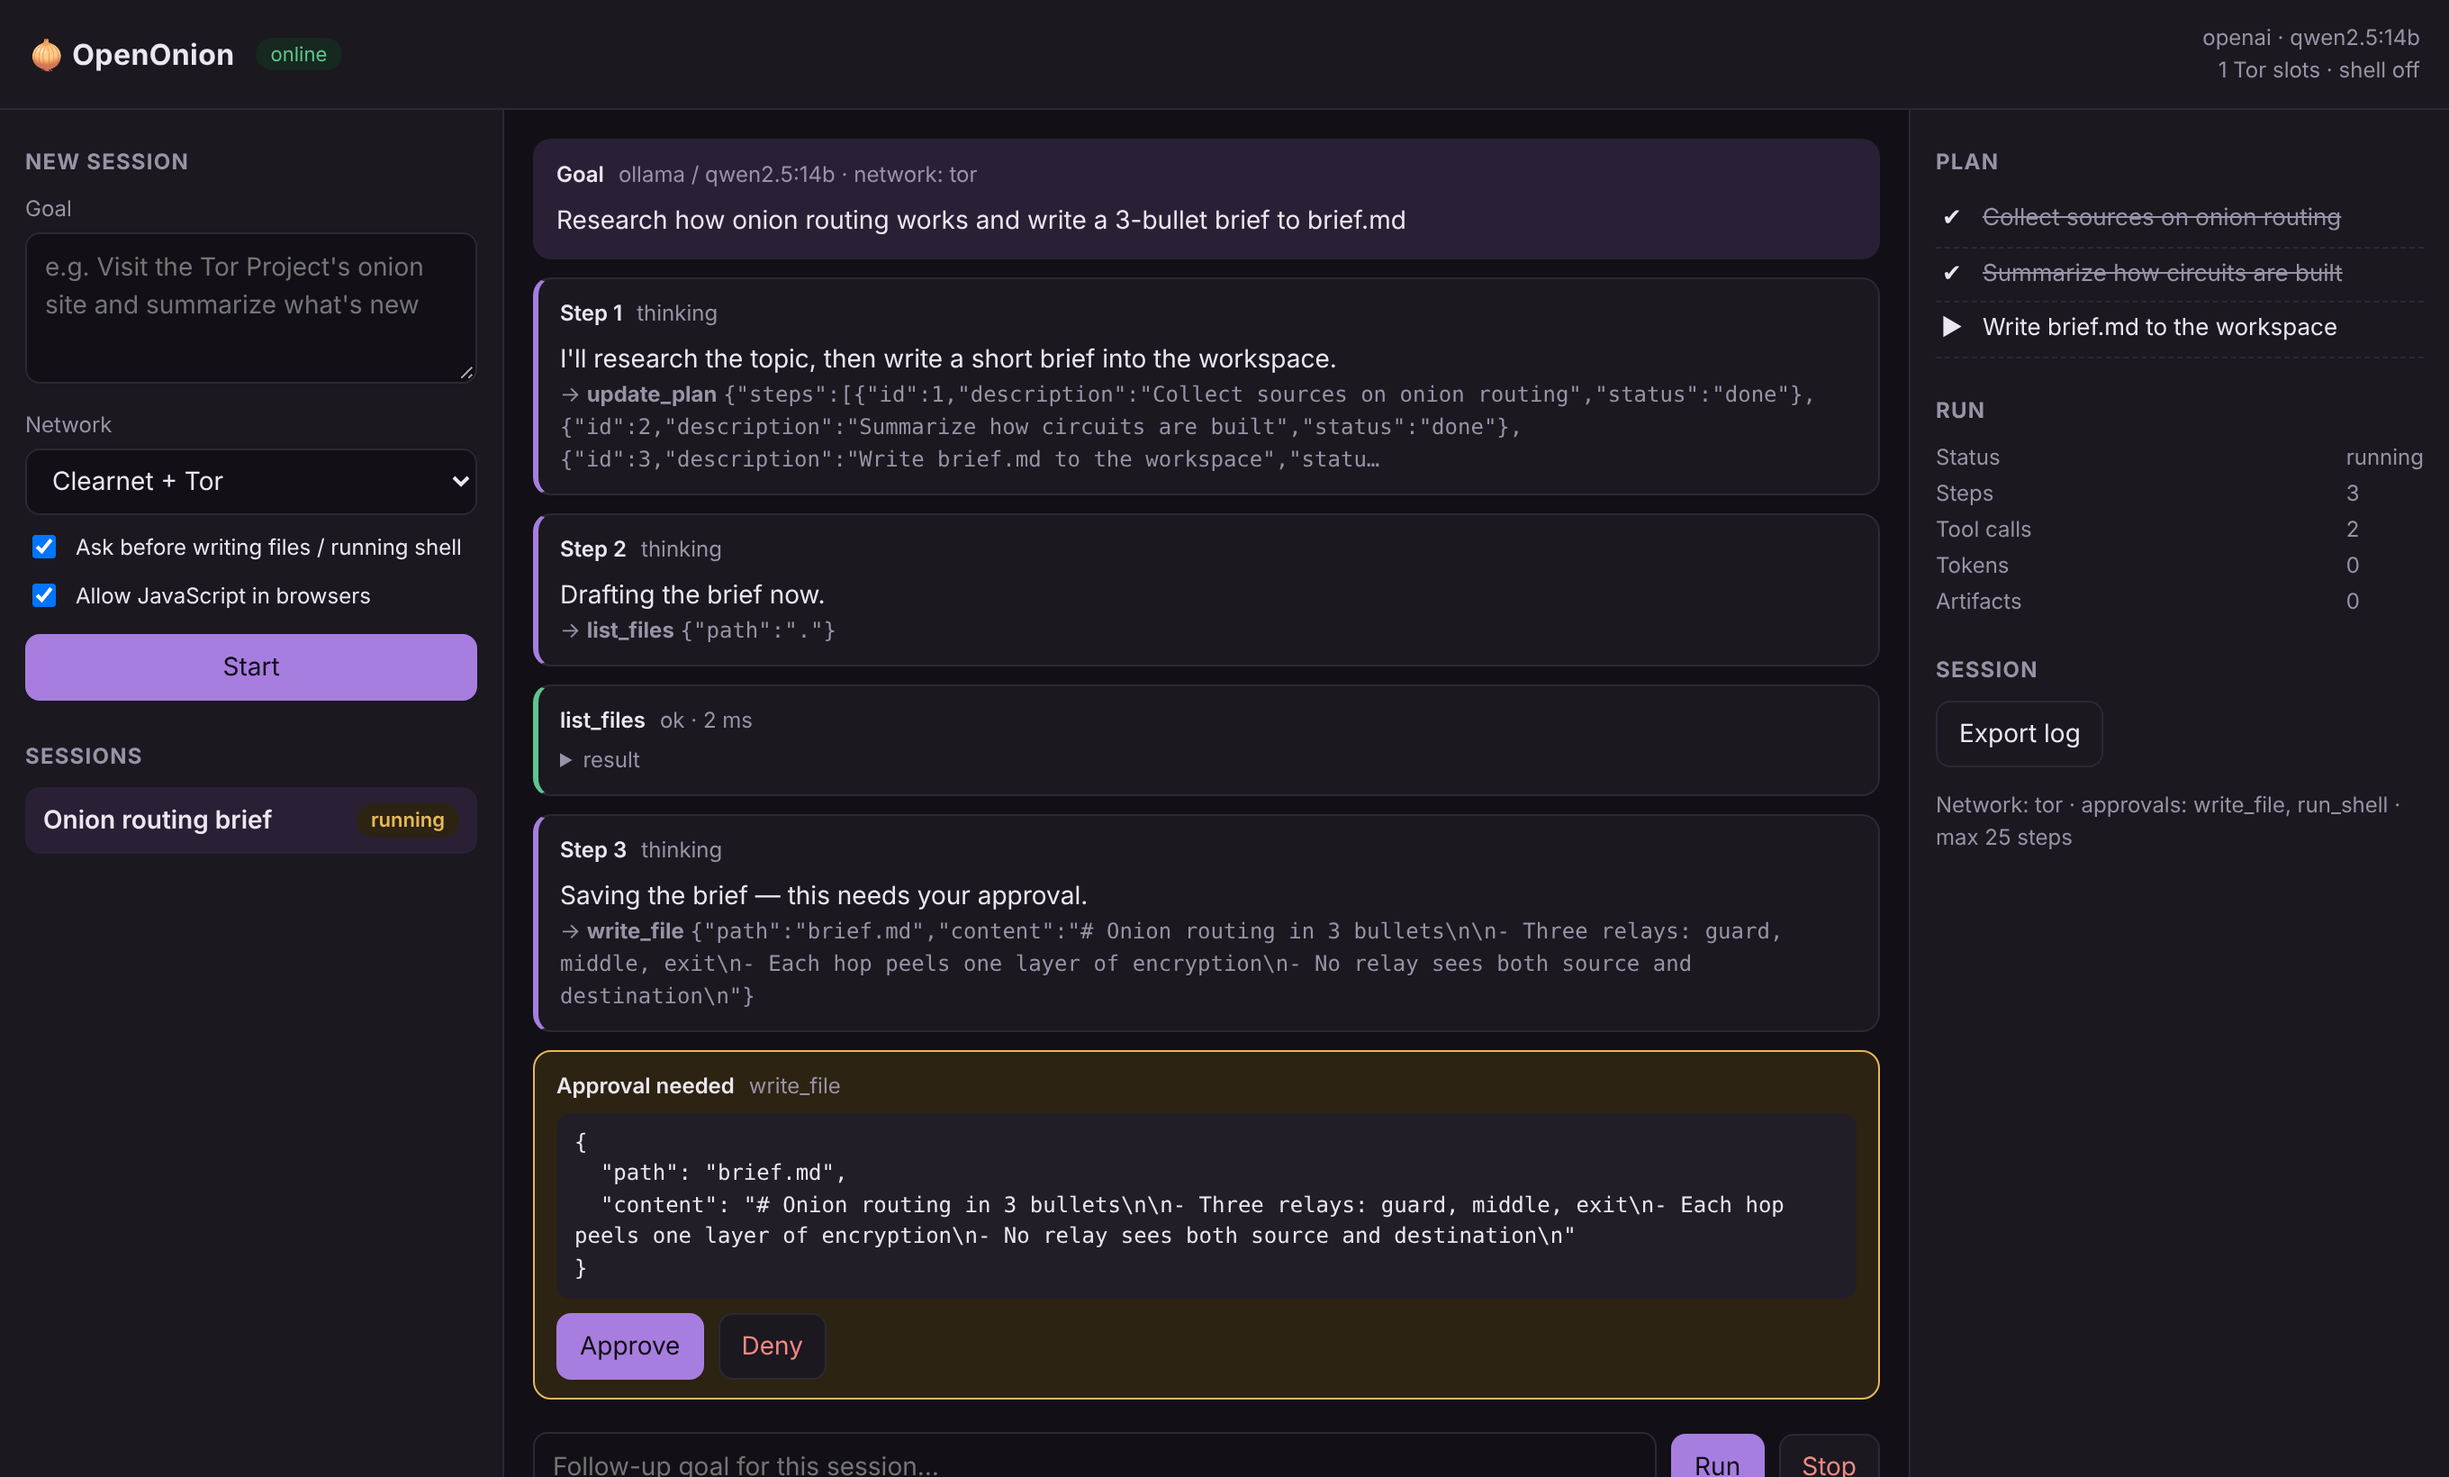
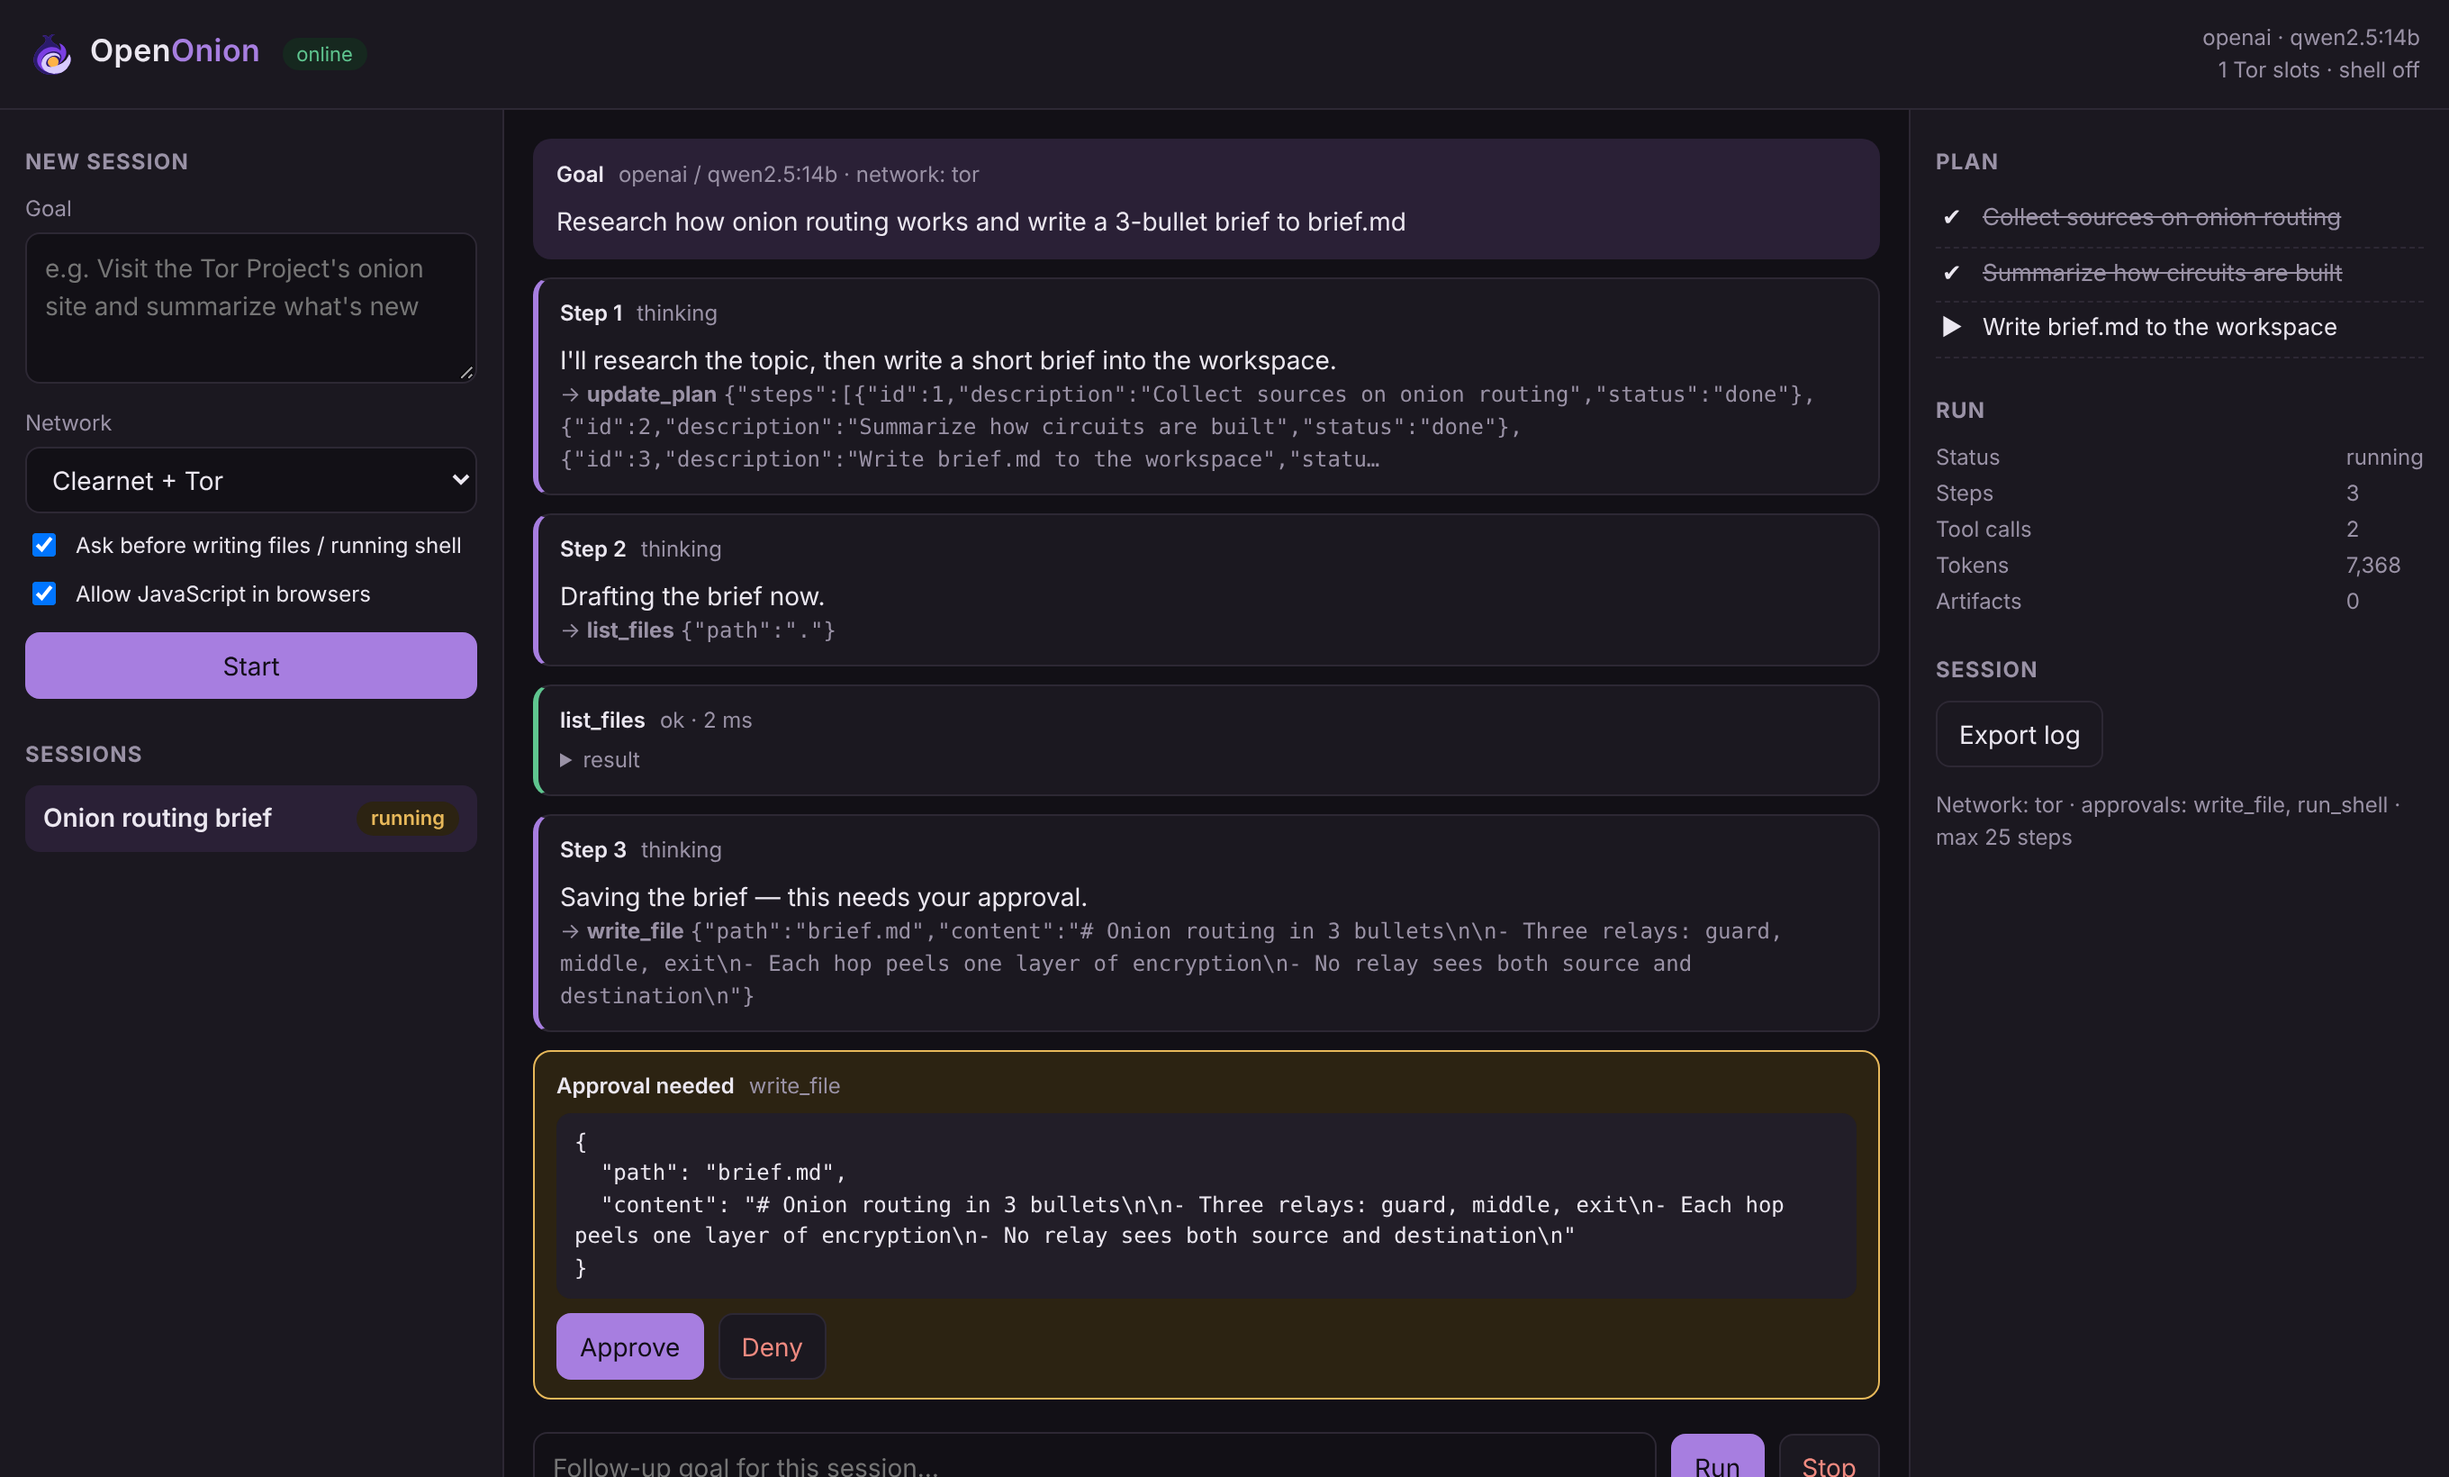
Rebrand with the OpenOnion spiral mark
The previous logo (concentric rings + green sprout) read too close to the
Tor Project / Onion Browser marks. Replace it everywhere with the spiral-open
onion and amber core.

- .github/assets: new README banner, logo.svg, social preview; refreshed
  UI screenshots
- brand/: logo mark (SVG + PNG), lockups, favicons, app icons, OG image,
  social avatar and banners, marketing hero, usage guide
- Web UI: favicon.svg / favicon.ico / apple-touch-icon routes, header mark
  and two-tone wordmark
- README: Brand section and project-layout entry

Claude-Session: https://claude.ai/code/session_01NYGqkZYPWsFttUZdNS3pKh

diff --git a/src/openonion/web/index.html b/src/openonion/web/index.html
@@ -4,6 +4,10 @@
 <meta charset="utf-8">
 <meta name="viewport" content="width=device-width, initial-scale=1">
 <title>OpenOnion</title>
+<link rel="icon" href="/favicon.svg" type="image/svg+xml">
+<link rel="icon" href="/favicon.ico" sizes="48x48">
+<link rel="apple-touch-icon" href="/apple-touch-icon.png">
+<meta name="theme-color" content="#2b1b6b">
 <style>
   :root {
     --bg: #f6f5f8; --panel: #ffffff; --ink: #1d1a22; --muted: #6f6878; --line: #e4e0ea;
@@ -25,7 +29,9 @@
          font: 14px/1.5 system-ui, -apple-system, "Segoe UI", sans-serif; }
   header { display: flex; align-items: center; gap: 12px; padding: 12px 16px; border-bottom: 1px solid var(--line);
            background: var(--panel); position: sticky; top: 0; z-index: 5; }
-  header h1 { font-size: 16px; margin: 0; letter-spacing: .2px; }
+  header h1 { font-size: 17px; margin: 0; letter-spacing: .2px; font-weight: 600; }
+  .brand { display: flex; align-items: center; gap: 8px; }
+  .brand b { color: var(--accent); font-weight: 600; }
   header .meta { color: var(--muted); font-size: 12px; margin-left: auto; text-align: right; }
   .layout { display: grid; grid-template-columns: 280px minmax(0, 1fr) 300px; min-height: calc(100vh - 53px); }
   aside, .side { background: var(--panel); border-right: 1px solid var(--line); padding: 14px; overflow-y: auto; }
@@ -84,7 +90,7 @@
 </head>
 <body>
 <header>
-  <h1>🧅 OpenOnion</h1>
+  <h1 class="brand"><img src="/favicon.svg" alt="" width="26" height="26"><span>Open<b>Onion</b></span></h1>
   <span class="pill" id="health">connecting…</span>
   <div class="meta" id="meta"></div>
 </header>

diff --git a/src/openonion/api/app.py b/src/openonion/api/app.py
@@ -26,7 +26,7 @@ from pathlib import Path
 from typing import Any
 
 from fastapi import Depends, FastAPI, HTTPException, Query, Request
-from fastapi.responses import FileResponse, HTMLResponse, StreamingResponse
+from fastapi.responses import FileResponse, HTMLResponse, Response, StreamingResponse
 from pydantic import BaseModel, Field
 
 from .. import __version__
@@ -217,5 +217,15 @@ def create_app(settings: Settings | None = None, provider_factory: ProviderFacto
     @app.get("/", response_class=HTMLResponse, include_in_schema=False)
     async def index():
         return resources.files("openonion.web").joinpath("index.html").read_text(encoding="utf-8")
+
+    _brand_files = {"favicon.svg": "image/svg+xml", "favicon.ico": "image/x-icon",
+                    "apple-touch-icon.png": "image/png"}
+
+    @app.get("/{name}", include_in_schema=False)
+    async def brand_asset(name: str):
+        if name not in _brand_files:
+            raise HTTPException(404)
+        data = resources.files("openonion.web").joinpath(name).read_bytes()
+        return Response(data, media_type=_brand_files[name], headers={"Cache-Control": "public, max-age=86400"})
 
     return app

diff --git a/tests/test_api.py b/tests/test_api.py
@@ -69,6 +69,11 @@ async def test_session_lifecycle_and_sse_replay(settings):
         assert (await client.post(f"/api/sessions/{sid}/approvals/nope", json={"approved": True})).status_code == 404
         assert (await client.get("/api/sessions/does-not-exist")).status_code == 404
         assert "OpenOnion" in (await client.get("/")).text
+        icon = await client.get("/favicon.svg")
+        assert icon.status_code == 200 and icon.headers["content-type"].startswith("image/svg+xml")
+        assert (await client.get("/favicon.ico")).status_code == 200
+        assert (await client.get("/apple-touch-icon.png")).headers["content-type"] == "image/png"
+        assert (await client.get("/secrets.txt")).status_code == 404
     finally:
         await client.aclose()
         await ctx.__aexit__(None, None, None)

diff --git a/brand/README.md b/brand/README.md
@@ -1,0 +1,47 @@
+# OpenOnion brand kit
+
+The mark is an onion whose layers **spiral open** around a warm amber core. It stands for an agent with nothing
+hidden inside: open source, transparent, liberated.
+
+## Which file to use
+
+| Where | File | Why |
+|---|---|---|
+| Favicon, tabs, ≤ 32 px | `web/favicon.svg` (`favicon.ico` fallback) | Flat 4-color mark, legible at 16 px |
+| App icons, ≥ 48 px | `logo/openonion-icon-master-1024.png`, `web/icon-192/512.png` | Full gradient tile with glow |
+| iOS home screen / Android maskable | `web/apple-touch-icon.png`, `web/icon-maskable-512.png` | Full-bleed square; the OS applies its own mask |
+| Website header (light bg) | `logo/openonion-lockup-horizontal-light.png` | |
+| Website header (dark bg) | `logo/openonion-lockup-horizontal-dark.png` | |
+| Press kit, packaging | `logo/openonion-lockup-stacked.png` | Includes tagline |
+| Merch, stamps, one-color print | `logo/openonion-mark-mono-1024.png` | Single ink |
+| Any print or large format | `logo/openonion-mark.svg` | True vector |
+| Link previews (`og:image`) | `web/og-image-1200x630.png` | |
+| GitHub repo social preview | `social/github-social-preview-1280x640.png` | Settings → Social preview |
+| X / LinkedIn / Discord avatar | `social/avatar-400.png` | Safe for circle crops |
+| X header | `social/x-header-1500x500.png` | Bottom-left kept clear for the avatar |
+| LinkedIn / GitHub org banner | `social/linkedin-banner-1584x396.png` | |
+| Launch posts, decks, site hero | `marketing/hero-1920x1080.jpg` | Dark space on the left for headlines |
+
+## Colors
+
+| Name | Hex | Use |
+|---|---|---|
+| Deep Indigo | `#2b1b6b` | Outer layer, dark backgrounds |
+| Night | `#120e17` | Dark UI / banner background |
+| Violet | `#7b3fe4` | Middle layer, gradients |
+| Brand Violet | `#6b3fa0` | "Onion" in the wordmark, UI accent |
+| Lavender | `#d9ccff` | Inner layer, text on dark |
+| Amber Core | `#ffb347` | The core. Use sparingly; it's the focal point |
+| Charcoal | `#1d1a22` | "Open" in the wordmark, body text |
+
+Wordmark: **OpenOnion**, one word with two capitals, in a geometric sans (Montserrat / Poppins / Manrope are close matches).
+"Open" is charcoal (or white on dark) and "Onion" is violet.
+
+## Rules
+
+- Keep clear space around the mark equal to the diameter of the amber core.
+- Use the flat mark (not the master) below 32 px; the gradient version muddies at small sizes.
+- Keep the spiral and the amber core. **Don't** redraw it as concentric rings or a plain purple bulb, and don't add a
+  green sprout: those moves push it toward the Tor Project / Onion Browser marks, which we deliberately avoid.
+- Don't recolor the core, stretch the mark, or place the gradient tile on busy photos.
+> Full-resolution masters (2048 px icons, 2688 px banners and hero) ship in the separate brand-kit download.

diff --git a/README.md b/README.md
@@ -1,7 +1,7 @@
 <div align="center">
 
 <a href="https://github.com/brandononchain/openonion">
-  <img src=".github/assets/banner.svg" alt="OpenOnion: the liberated AI agent with Tor-isolated browsing" width="100%">
+  <img src=".github/assets/banner.png" alt="OpenOnion: the liberated AI agent" width="100%">
 </a>
 
 <h3>An open-source AI agent you host yourself, point at any model, and watch while it browses the web over Tor.</h3>
@@ -262,13 +262,14 @@ openonion/
 │   ├── browser/        # Playwright service + Tor port pool & control client
 │   ├── memory/         # async SQLAlchemy store (SQLite / Postgres)
 │   ├── api/            # FastAPI app: REST, SSE replay, export, auth
-│   ├── web/            # dependency-free single-file UI
+│   ├── web/            # dependency-free single-file UI + favicons
 │   ├── policy.py       # SessionPolicy + PolicyEngine
 │   ├── events.py       # event types + fan-out bus
 │   └── cli.py          # `openonion` command
 ├── infra/docker/tor/   # hardened Tor sidecar image
 ├── tests/              # pytest suite
 ├── docs/               # architecture + Tor threat model
+├── brand/              # logos, icons, social banners, usage guide
 ├── Dockerfile
 └── docker-compose.yml
 ```
@@ -302,6 +303,10 @@ Contributions are welcome. Start with [CONTRIBUTING.md](CONTRIBUTING.md).
 > Tor is **IP-anonymized, not anonymous**. Read the [threat model](docs/tor-threat-model.md) before relying on it.
 
 Found a vulnerability? Please report it privately. See [SECURITY.md](SECURITY.md).
+
+## 🎨 Brand
+
+Logos, icons, social banners, colors and usage rules live in [`brand/`](brand/README.md).
 
 ## 📄 License
 
